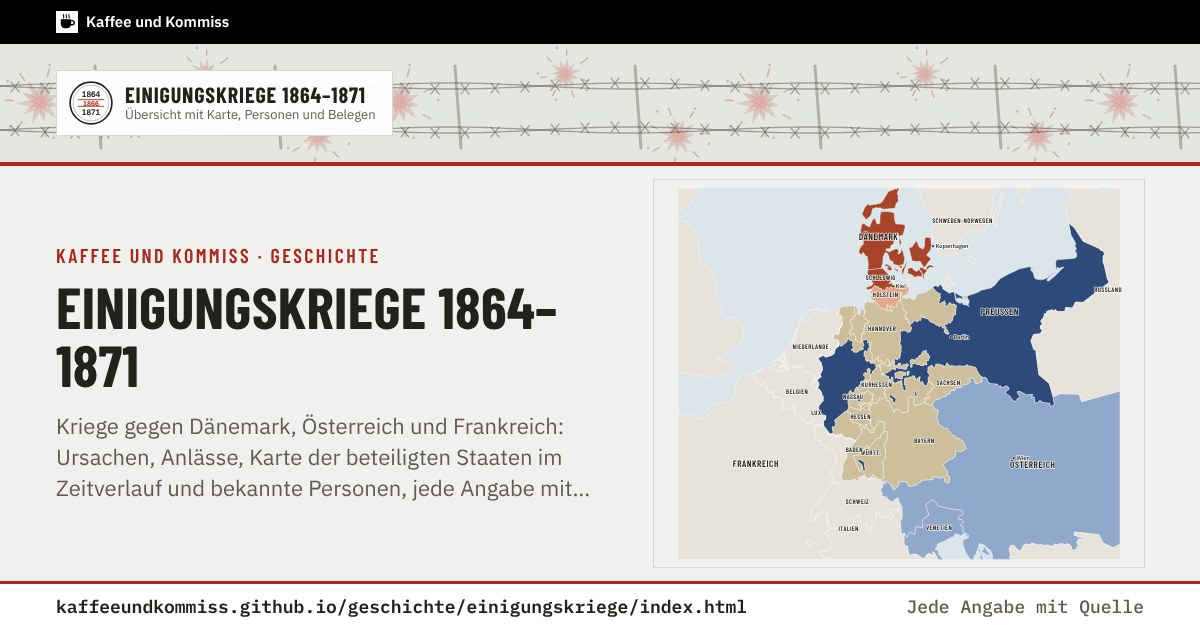
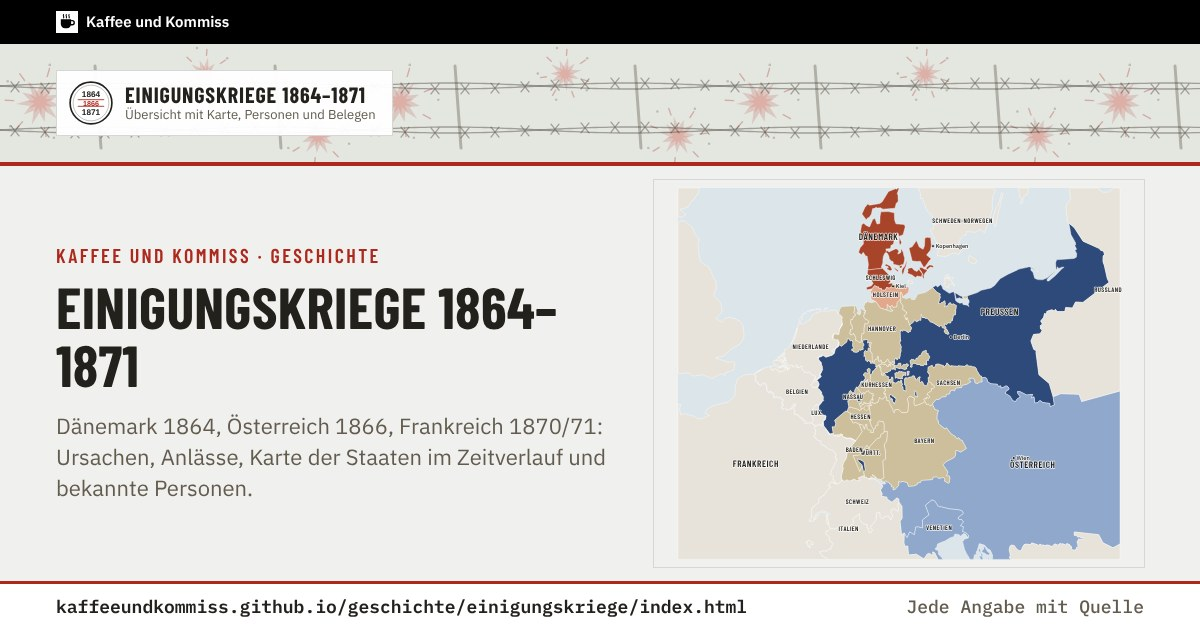
Einigungskriege: Vorschaubild mit kürzerem Untertitel
Claude-Session: https://claude.ai/code/session_01AuP7hGp7FE8PqAvW26hRxy

Changed region(s): [[0.0308, 0.6635, 0.4933, 0.8143]]

diff --git a/geschichte/einigungskriege/index.html b/geschichte/einigungskriege/index.html
@@ -13,12 +13,12 @@
 <meta property="og:description" content="Die sogenannten Einigungskriege 1864, 1866 und 1870/71 im Überblick: Ursachen, Anlässe, eine Karte der beteiligten Staaten im Zeitverlauf und je Staat eine bekannte Person, jede Angabe mit Quelle.">
 <meta property="og:url" content="https://kaffeeundkommiss.github.io/geschichte/einigungskriege/">
 <!-- Vorschau für Linkvorschauen, erzeugt mit werkzeuge/vorschau.js -->
-<meta property="og:image" content="https://kaffeeundkommiss.github.io/vorschau/einigungskriege.jpg?v=53e795db">
+<meta property="og:image" content="https://kaffeeundkommiss.github.io/vorschau/einigungskriege.jpg?v=0e8a6dc7">
 <meta property="og:image:width" content="1200">
 <meta property="og:image:height" content="630">
 <meta property="og:image:alt" content="Einigungskriege 1864–1871: Kaffee und Kommiss">
 <meta name="twitter:card" content="summary_large_image">
-<meta name="twitter:image" content="https://kaffeeundkommiss.github.io/vorschau/einigungskriege.jpg?v=53e795db">
+<meta name="twitter:image" content="https://kaffeeundkommiss.github.io/vorschau/einigungskriege.jpg?v=0e8a6dc7">
 <link rel="icon" href="../../icons/einigungskriege.svg" type="image/svg+xml">
 <link rel="icon" href="../../favicon-32.png" type="image/png" sizes="32x32">
 <link rel="apple-touch-icon" sizes="180x180" href="../../apple-touch-icon.png?v=2">
